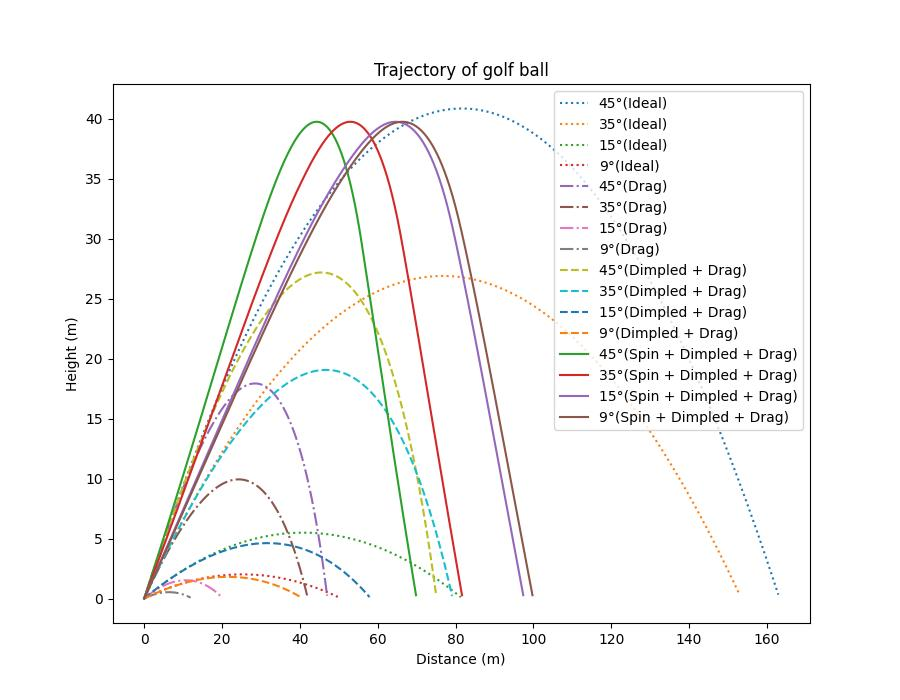
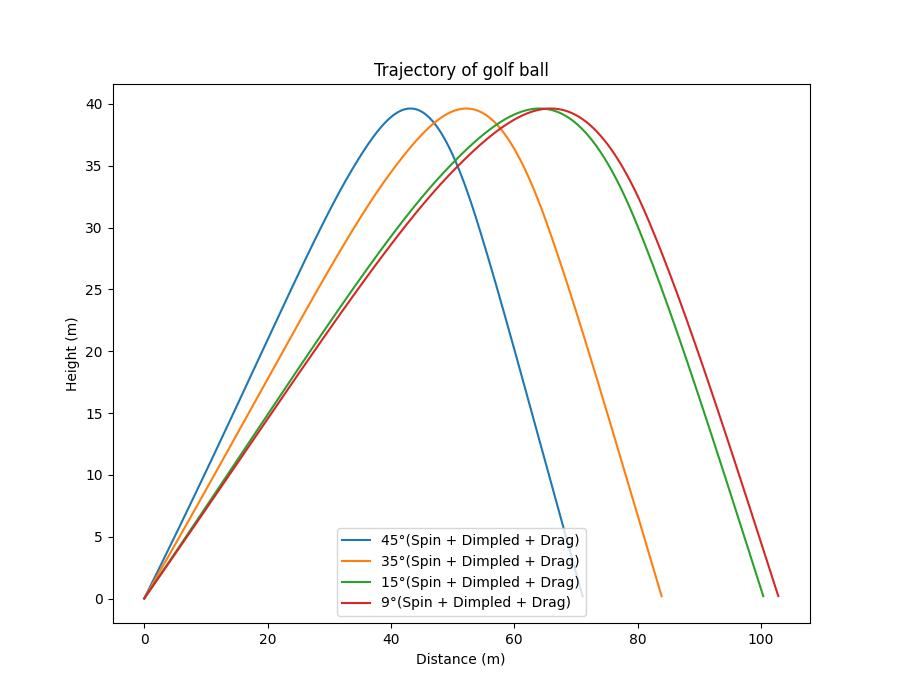
removed 1 line

diff --git a/HW2/golf.py b/HW2/golf.py
@@ -44,7 +44,7 @@ def golf_trajectory():
     plt.figure(figsize=(9, 7))
     '''For loop for cyclying though each conditons
     and through all the given angles'''
-    for condition in range(4):
+    for condition in range(3,4):
         for k in range(len(theta)):
             if condition == 0:
                 # Emptying the list
@@ -179,7 +179,7 @@ def golf_trajectory():
                     else:
                         vx_dds.append(
                             vx_dds[i]+(-1*0.5*d*A*math.sqrt(vx_dds[i]**2+vy_dds[i]**2)
-                                       * vx_dds[i]*dt)/m-0.25*vy_dds[i]*dt*dt)  # Appeding the next value
+                                       * vx_dds[i]*dt)/m-0.25*vy_dds[i]*dt)  # Appeding the next value
                         vy_dds.append(
                             vy_dds[i]-g*dt+(-1*0.5*d*A*vy_dds[i]*dt)/m+0.25
                             * vx_dds[i]*dt)  # Appeding the next value
